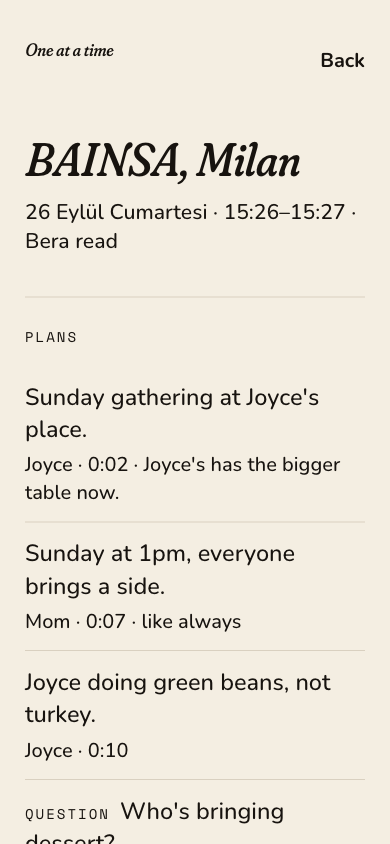
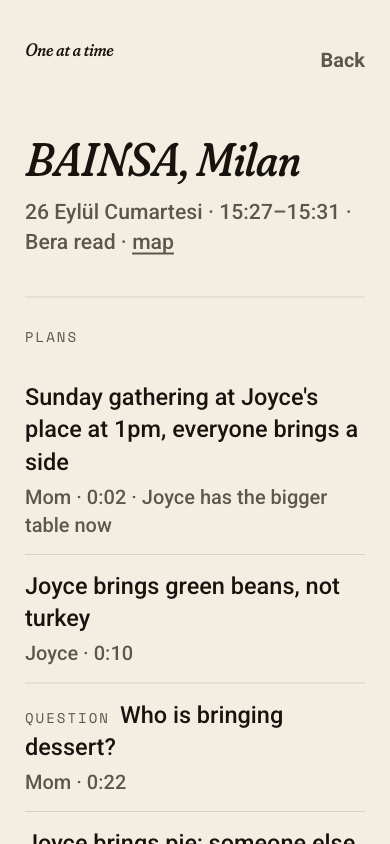
Places map: CARTO light tiles via VITE_CARTO_KEY (OSM fallback); notes page portaled above the map so it never clips or bleeds

Changed region(s): [[0.0615, 0.4621, 0.9231, 1.0], [0.0615, 0.2156, 0.8923, 0.3081], [0.8308, 0.0616, 0.9538, 0.0924]]

diff --git a/client/src/ui/NotesPage.tsx b/client/src/ui/NotesPage.tsx
@@ -1,5 +1,6 @@
 // A past table: where and when, and the notes the clerk took there. Same typography as "The table": hairlines, no cards.
 import { useEffect, useRef, useState, type ReactNode } from 'react';
+import { createPortal } from 'react-dom';
 import { getTable, type NoteRow, type TableRow } from '@/lib/notesDb';
 
 const PREFIX: Record<string, string> = { objection: 'Pushback', open_question: 'Question', instruction_change: 'Changed', assigned_to_me: 'Asked of you', missed: 'Missed' };
@@ -42,8 +43,8 @@ export function NotesPage({ id, onClose }: { id: string; onClose: () => void }) 
   const asked = notes.filter((n) => n.kind === 'assigned_to_me');
   const missed = notes.filter((n) => n.kind === 'missed');
   const other = notes.filter((n) => !plans.includes(n) && !asked.includes(n) && !missed.includes(n));
-  return (
-    <div role="dialog" aria-modal="true" aria-label="A past table" className="oat-up font-notes fixed inset-0 z-[90] overflow-y-auto bg-cream text-ink"
+  return createPortal(
+    <div role="dialog" aria-modal="true" aria-label="A past table" className="oat-up font-notes fixed inset-0 z-[1200] overflow-y-auto bg-cream text-ink"
       onTouchStart={(e) => { touchY.current = e.touches[0].clientY; }}
       onTouchEnd={(e) => { const y0 = touchY.current; touchY.current = null; if (y0 != null && e.changedTouches[0].clientY - y0 > 70) onClose(); }}
       onKeyDown={(e) => { if (e.key === 'Escape') onClose(); }}>
@@ -72,6 +73,7 @@ export function NotesPage({ id, onClose }: { id: string; onClose: () => void }) 
         {other.length > 0 && <Section title="Notes"><ul className="divide-y divide-rule">{other.map((n) => <Line key={n.id} n={n} />)}</ul></Section>}
         {!data && !err && <Empty>Loading…</Empty>}
       </div>
-    </div>
+    </div>,
+    document.body,
   );
 }

diff --git a/client/src/ui/PlacesPage.tsx b/client/src/ui/PlacesPage.tsx
@@ -14,7 +14,9 @@ function Map({ tables, onPick }: { tables: TableRow[]; onPick: (id: string) => v
   useEffect(() => {
     if (!el.current || map.current) return;
     const m = L.map(el.current, { zoomControl: false, attributionControl: true, scrollWheelZoom: false });
-    L.tileLayer('https://{s}.basemaps.cartocdn.com/light_all/{z}/{x}/{y}{r}.png', { maxZoom: 19, attribution: '&copy; OpenStreetMap &copy; CARTO' }).addTo(m);
+    const key = import.meta.env.VITE_CARTO_KEY as string | undefined;
+    if (key) L.tileLayer(`https://{s}.basemaps.cartocdn.com/light_all/{z}/{x}/{y}{r}.png?key=${encodeURIComponent(key)}`, { maxZoom: 19, subdomains: 'abcd', attribution: '&copy; OpenStreetMap &copy; CARTO' }).addTo(m);
+    else L.tileLayer('https://tile.openstreetmap.org/{z}/{x}/{y}.png', { maxZoom: 19, attribution: '&copy; OpenStreetMap contributors', className: 'oat-tiles' }).addTo(m);
     L.control.zoom({ position: 'bottomright' }).addTo(m);
     map.current = m;
     return () => { m.remove(); map.current = null; };
@@ -48,7 +50,7 @@ export function PlacesPage({ onClose }: { onClose: () => void }) {
   }, []);
   const pinned = (tables ?? []).filter((t) => t.lat != null).length;
   return (
-    <div role="dialog" aria-modal="true" aria-label="Places" className="oat-up font-notes fixed inset-0 z-50 overflow-y-auto bg-cream text-ink"
+    <div role="dialog" aria-modal="true" aria-label="Places" className="oat-up font-notes fixed inset-0 z-[1100] overflow-y-auto bg-cream text-ink"
       onTouchStart={(e) => { touchY.current = e.touches[0].clientY; }}
       onTouchEnd={(e) => { const y0 = touchY.current; touchY.current = null; if (y0 != null && e.changedTouches[0].clientY - y0 > 70 && !open) onClose(); }}
       onKeyDown={(e) => { if (e.key === 'Escape' && !open) onClose(); }}>

diff --git a/client/src/index.css b/client/src/index.css
@@ -335,3 +335,10 @@ html.io .reveal.is-in { opacity: 1; transform: none; }
 @utility font-notes {
   font-family: var(--font-notes);
 }
+
+/* Map tiles muted toward cream: the pins are the only color on the page. */
+.oat-tiles { filter: grayscale(0.85) sepia(0.25) brightness(1.04) contrast(0.92); }
+.leaflet-container { background: var(--cream); font-family: var(--font-notes); }
+.leaflet-tooltip { background: var(--cream); color: var(--ink); border: 1px solid var(--rule); border-radius: 8px; box-shadow: none; font-family: var(--font-notes); font-size: 14px; }
+.leaflet-tooltip-top:before { border-top-color: var(--rule); }
+.leaflet-bar a { background: var(--cream); color: var(--ink); border-bottom-color: var(--rule); }

diff --git a/client/vite.config.ts b/client/vite.config.ts
@@ -3,6 +3,7 @@ import react from '@vitejs/plugin-react'
 import tailwindcss from '@tailwindcss/vite'
 import { fileURLToPath } from 'node:url'
 export default defineConfig({
+  envDir: '..', // the repo-root .env (keys) also feeds VITE_* build-time values
   plugins: [react(), tailwindcss()],
   resolve: { alias: { '@': fileURLToPath(new URL('./src', import.meta.url)) } },
   build: {
